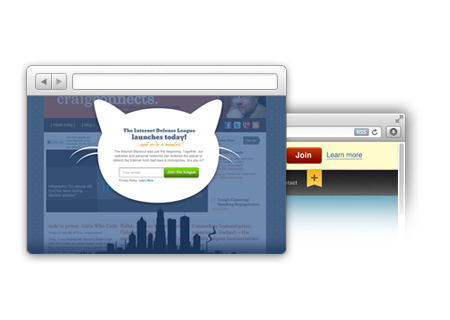
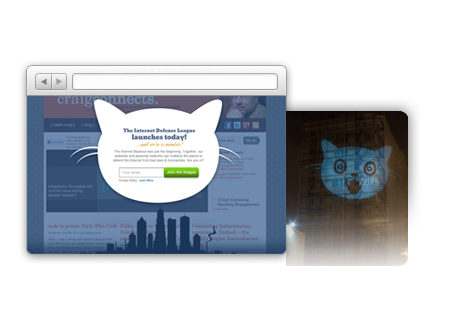
will launch to launched

Changed region(s): [[0.6222, 0.3438, 0.9333, 0.8438]]

diff --git a/public/launch/index.html b/public/launch/index.html
@@ -65,7 +65,7 @@
       	</div>
       	<a id="note_left" href="http://internetdefenseleague.org"></a>
       	<div id="banner">
-			<p id="banner_txt">Today: IDL launches, blasting cat signals all over the internet and in real life</p>
+			<p id="banner_txt">IDL launched, blasting cat signals all over the internet and in real life</p>
 			<form id="banner_emails" action="http://nt.salsalabs.com/save">
 				<input type="hidden" name="email_trigger_KEYS" value="3" />
 				<input type="hidden" name="organization_KEY" value="-501"/>
@@ -79,12 +79,12 @@
 				
 									
 									
-				<label><strong>Sign up</strong> to join the launch</label> <input type="email" name="Email" placeholder="Your email" /> <button class="oleo">Submit</button>
+				<label><strong>Sign up</strong> to join </label> <input type="email" name="Email" placeholder="Your email" /> <button class="oleo">Submit</button>
 			</form>
       	</div>
 
       	
-      	<div id="left_body"><h3 id="launch">So let's make it epic.  The plan?  While member sites broadcast the news online, we blast our "cat signal" into the sky with crowd-funded spotlights in cities around the world (on Batman's opening night!)</h3>
+      	<div id="left_body"><h3 id="launch">It was <em>epic</em>.  While member sites broadcasted the news online, we blasted our &ldquo;cat signal&rdquo; into the sky with crowd-funded spotlights in cities around the world (on Batman's opening night!)</h3>
       	<img class="launch_images" src="/images/launch/cat_signal.jpg" alt="Cat Signal">
       	<!-- <p class="caption_txt">Maecenas sed diam eget risus varius blandit sit amet non magna. Aenean lacinia bibendum nulla sed consectetur.</p> -->
 				<p class="launch_txt">The <a href="http://internetdefenseleague.org">Internet Defense League</a> is a network of people and sites who use their massive combined reach to defend the open internet and make it better. Because it can sound the alarm quickly to millions of users, people are calling it &ldquo;a bat-signal for the Internet&rdquo;.</p>
@@ -122,7 +122,7 @@
       	<div id="small_pod" style="overflow: auto;">
 			<h4>Giant Spotlights, in the sky!</h4>
 			<img src="/images/launch/cat_city.png" alt="Giant Spotlight">
-			<p class="small_pod_txt">Today, as people go to midnight showings of Batman, we are going to run 5 spotlights in 5 cities blasting beams of light into the sky, and our cat signal on neighboring buildings. But we need your help to make it happen!</p>
+			<p class="small_pod_txt">As people went out for midnight showings of Batman, we ran spotlights in 4 cities blasting beams of light into the sky, and our cat signal on neighboring buildings. With your help we made it happen!</p>
 			<a href="https://fftf.actionkit.com/donate/idl-donate" class="launch_donate_btn"><span>Fund This Project</span></a>
 			
 						<div class="paypals"><a  class="bebas" href="https://www.paypal.com/cgi-bin/webscr?cmd=_s-xclick&hosted_button_id=ZAKBJLWU5TQR2" style="display: inline-block; float: left; text-align: center; font-size: 24px; margin-top: 40px; margin-left: 20px; ">Donate with <!-- PayPal Logo --><img  src="https://www.paypal.com/en_US/i/logo/PayPal_mark_60x38.gif" border="0" alt="PayPal Logo" style="float: right; margin-right: 10px; margin-top: -5px;"></a></div>

diff --git a/public/index.html b/public/index.html
@@ -292,16 +292,16 @@
           </div>
         </div>
       </div>
-	  <div id="banner_main_idl"><p id="banner_txt_main" style="margin-left: 63px;">The League is launching Today, sign up now and check out our <a href="http://internetdefenseleague.org/launch">launch plan.</a></p></div>
+	  <div id="banner_main_idl"><p id="banner_txt_main" style="margin-left: 63px;">The League is launched, sign up now and check out <a href="http://new.livestream.com/Fight4thefuture/IDL/">photos from the parties.</a></p></div>
       
         <div class="step blue">
         <div class="step-container">
           <!-- <div id="number"></div> -->
-          <h2 style="margin-top: 60px;">The league is launching today.</h2>
-          <p class="step-text">People are blasting cat signals all over the internet, you should too. <br><a href="#intro">Sign up</a>, then <a href="http://members.internetdefenseleague.org/">get the code.</a></p>
+          <h2 style="margin-top: 60px;">The league is launched!</h2>
+          <p class="step-text">People are blasting cat signals all over the internet and IRL, you should too. <br><a href="#intro">Sign up</a>, then <a href="http://members.internetdefenseleague.org/">get the code.</a></p>
         </div>
          <div class="step-icon">
-          <img src="images/getcode.png">
+          <a href="http://new.livestream.com/Fight4thefuture/IDL/"><img src="images/getcode.png"></a>
         </div>
         </div>
       
@@ -468,7 +468,7 @@ $("#donation_amount").keyup(function(event){
 			<p style="margin-left: 0px; padding: 20px; font-family: 'Verdana', sans-serif;">We're building a network of Twitter users to re-broadcast urgent alerts. Will you let the IDL post to your Twitter?</p>
 		</div>
 
-		<form action="http://radiant-earth-4575.herokuapp.com//auth/twitter_prep" method="POST" id="tweez">
+		<form action="http://radiant-earth-4575.herokuapp.com/auth/twitter_prep" method="POST" id="tweez">
 		  <label for="email">Your email<span> (Optional)</span></label>
 		  <input type="text" name="email" id="emaildudez" style="border: 1px solid black;">
 <fieldset>
